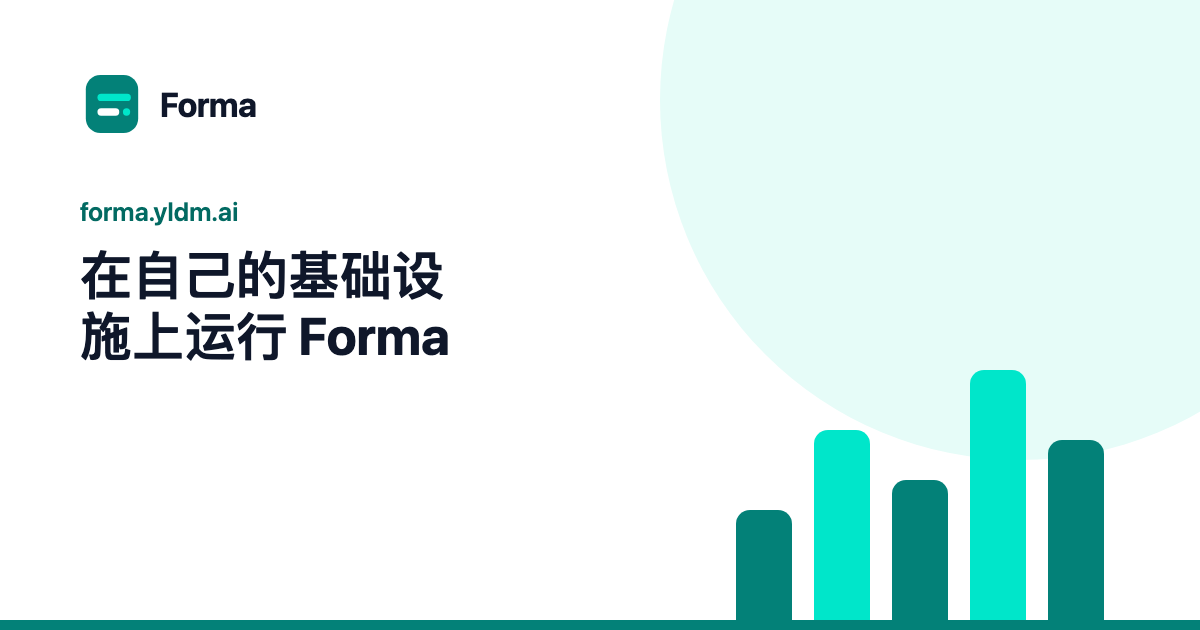
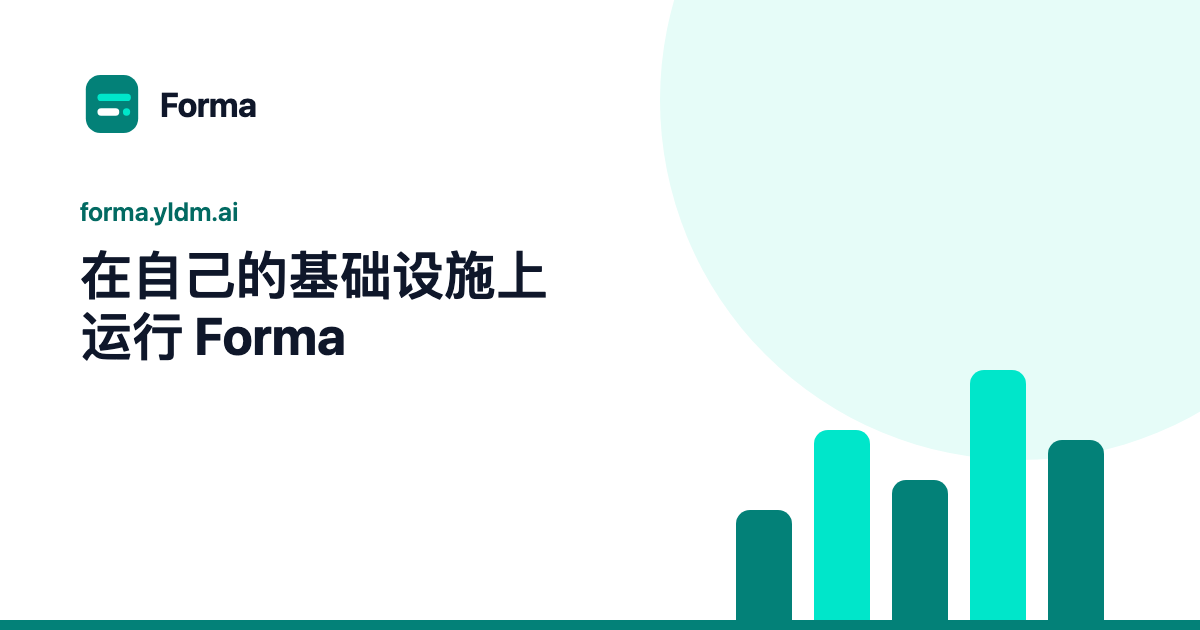
fix(website): CJK heading breaks, orphan control, two-column mobile footer

Changed region(s): [[0.0617, 0.4825, 0.37, 0.573], [0.37, 0.3921, 0.4625, 0.4825]]

diff --git a/apps/website/src/prerender/og-images.ts b/apps/website/src/prerender/og-images.ts
@@ -34,7 +34,7 @@ const template = (locale: string, heading: string, eyebrow: string): string => `
   .glow { position: absolute; right: -180px; top: -260px; width: 720px; height: 720px; border-radius: 50%; background: #e6fcf8; }
   .brand { position: absolute; left: 80px; top: 72px; display: flex; align-items: center; gap: 16px; font-size: 34px; font-weight: 700; letter-spacing: -0.02em; }
   .eyebrow { position: absolute; left: 80px; top: 196px; font-size: 26px; font-weight: 600; color: #026a62; }
-  h1 { position: absolute; left: 80px; top: 244px; width: 700px; font-size: ${locale === "en" ? 58 : 52}px; line-height: 1.18; font-weight: 700; letter-spacing: ${locale === "en" ? "-0.02em" : "0"}; text-wrap: balance; word-break: ${locale === "ja" ? "auto-phrase" : "normal"}; }
+  h1 { position: absolute; left: 80px; top: 244px; width: 700px; font-size: ${locale === "en" ? 58 : 52}px; line-height: 1.18; font-weight: 700; letter-spacing: ${locale === "en" ? "-0.02em" : "0"}; text-wrap: balance; word-break: ${locale === "ja" ? "auto-phrase" : locale === "zh" ? "keep-all" : "normal"}; overflow-wrap: break-word; }
   .bars { position: absolute; right: 96px; bottom: 0; display: flex; align-items: flex-end; gap: 22px; }
   .bars span { display: block; width: 56px; border-radius: 14px 14px 0 0; }
   .rule { position: absolute; left: 0; right: 0; bottom: 0; height: 10px; background: #038178; }

diff --git a/apps/website/src/content/zh.ts b/apps/website/src/content/zh.ts
@@ -216,7 +216,7 @@ export const zh: SiteContent = {
         title: "应用内问卷 · Forma",
         description: "识别用户、补充属性、创建分群，并在产品内的特定操作发生时触发问卷。",
       },
-      title: "面向已登录用户的应用内问卷",
+      title: "应用内问卷，面向已登录用户",
       sub: "识别用户、补充用户属性，只向那些对当下决策真正有参考价值的人提问。",
       identify: {
         title: "识别并补充用户信息",
@@ -294,7 +294,8 @@ export const zh: SiteContent = {
         title: "私有化部署 Forma · Docker / Helm",
         description: "使用 Docker Compose、Ubuntu 一键脚本或 Helm Chart 部署 Forma，附硬件要求与部署指南。",
       },
-      title: "在自己的基础设施上运行 Forma",
+      // U+200B marks where the heading may wrap: headings in Chinese only wrap at punctuation and spaces (styles.css).
+      title: "在自己的基础设施上\u200b运行 Forma",
       sub: "一个容器里的 Go 程序，加上 PostgreSQL、Valkey 和 SpiceDB。选择适合你团队的部署方式。",
       optionsTitle: "选择部署方式",
       docker: {

diff --git a/apps/website/src/components/Footer.tsx b/apps/website/src/components/Footer.tsx
@@ -28,8 +28,8 @@ export const SiteFooter = () => {
   const footer = content.common.footer;
   return (
     <footer aria-label={footer.label} className="border-line bg-surface-muted border-t">
-      <div className="container-site grid gap-10 py-12 sm:grid-cols-2 lg:grid-cols-5 lg:py-16">
-        <div className="lg:col-span-2">
+      <div className="container-site grid grid-cols-2 gap-x-6 gap-y-10 py-12 lg:grid-cols-5 lg:py-16">
+        <div className="col-span-2">
           <SmartLink
             href={localePrefix(locale)}
             aria-label={content.common.homeLabel}

diff --git a/apps/website/src/pages/Home.tsx b/apps/website/src/pages/Home.tsx
@@ -36,7 +36,7 @@ export const HomePage = () => {
             <div className="mt-8 flex flex-wrap items-center gap-3">
               <PrimaryCta />
               <SignInCta />
-              <DocsLink className="ml-2" />
+              <DocsLink className="sm:ml-2" />
             </div>
             <p className="measure text-small text-ink-500 mt-6">
               {SIGNUP_OPEN ? home.hero.note.open : home.hero.note.closed}

diff --git a/apps/website/src/components/Illustrations.tsx b/apps/website/src/components/Illustrations.tsx
@@ -154,7 +154,7 @@ export const DestinationsArt = () => {
           </div>
         </div>
         <svg
-          className="h-[288px] w-full text-mint-500"
+          className="text-mint-500 h-[288px] w-full"
           viewBox={`0 0 40 ${height}`}
           preserveAspectRatio="none"
           fill="none"

diff --git a/apps/website/src/styles.css b/apps/website/src/styles.css
@@ -78,6 +78,12 @@
     letter-spacing: -0.02em;
   }
 
+  /* No single word (or, in CJK, a lone character or closing punctuation) stranded on a paragraph's last line. */
+  p,
+  li {
+    text-wrap: pretty;
+  }
+
   html:lang(zh-Hans) :is(h1, h2, h3),
   html:lang(ja) :is(h1, h2, h3) {
     letter-spacing: 0;

diff --git a/apps/website/src/pages/MorePages.tsx b/apps/website/src/pages/MorePages.tsx
@@ -25,7 +25,6 @@ import {
   pagePath,
 } from "../site";
 
-
 export const IntegrationsPage = () => {
   const { content } = useSite();
   const page = content.pages.integrations;

diff --git a/apps/website/src/pages/SurveyPages.tsx b/apps/website/src/pages/SurveyPages.tsx
@@ -19,7 +19,7 @@ const HeroActions = () => (
   <>
     <PrimaryCta />
     <SignInCta />
-    <DocsLink className="ml-2" />
+    <DocsLink className="sm:ml-2" />
   </>
 );
 
